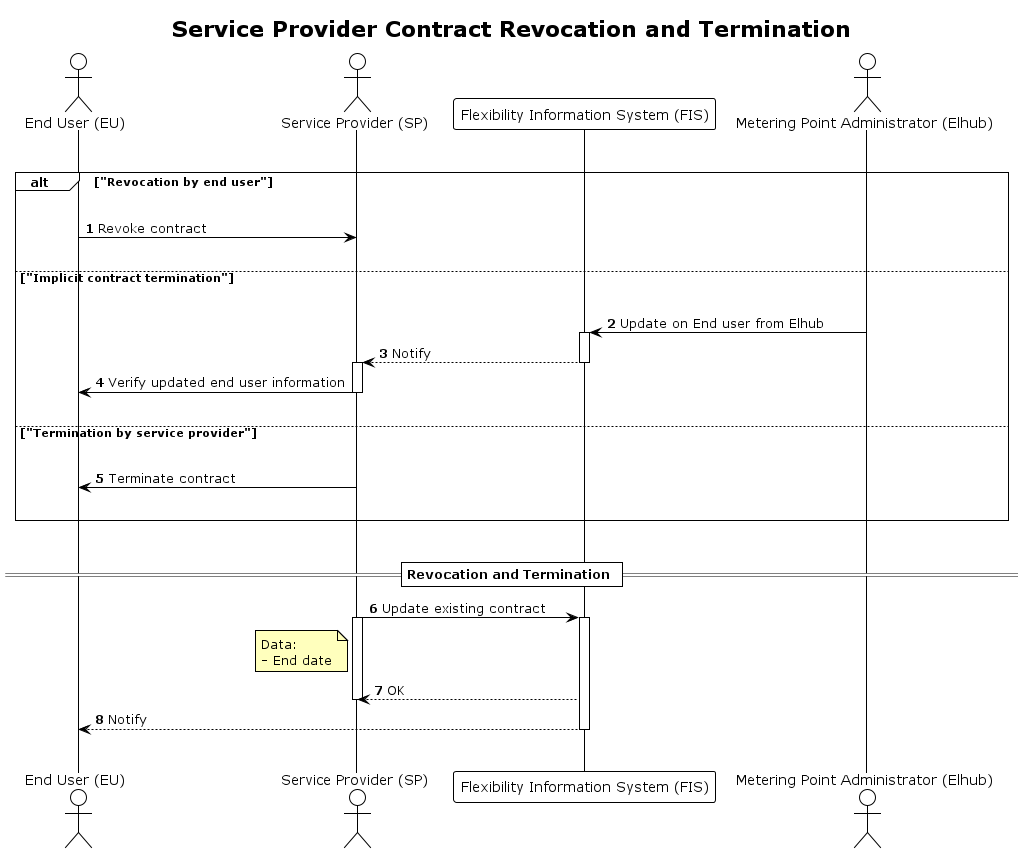
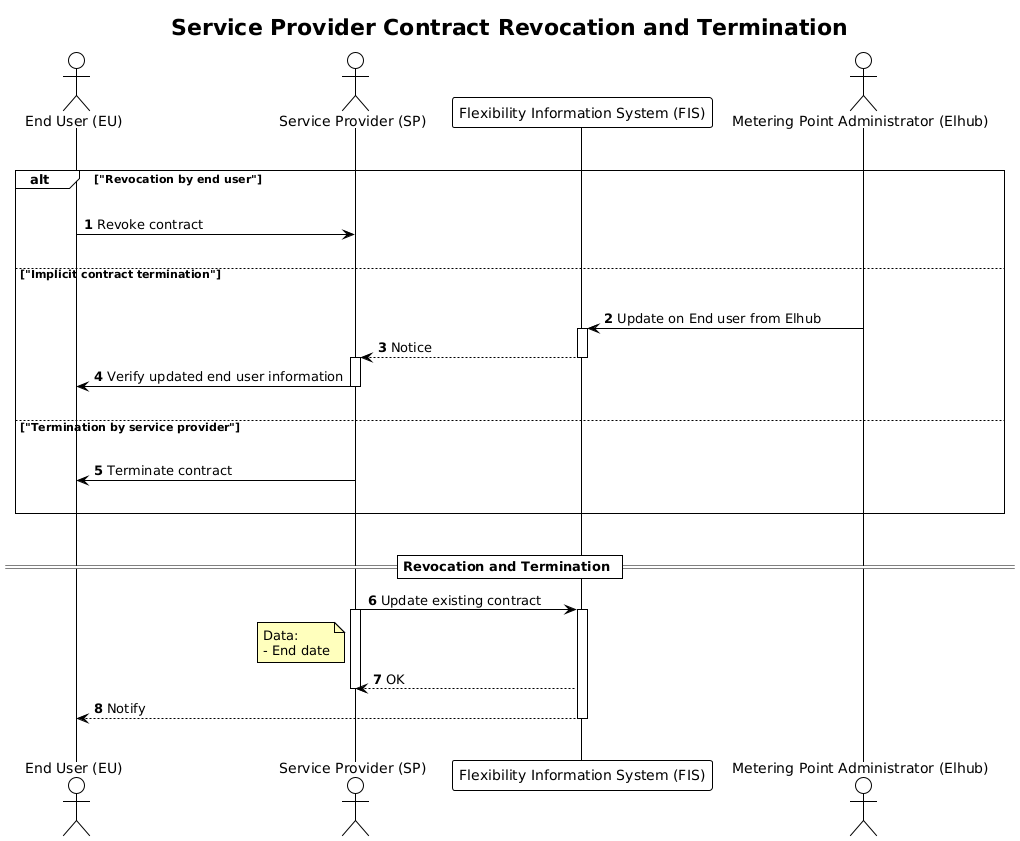
docs: use notice for SP on CUSP revocation (FLEX-531) (#209)

diff --git a/docs/processes/revocation.md b/docs/processes/revocation.md
@@ -30,7 +30,7 @@ time.
   on continuously updated end user information from Elhub.
 - A controllable unit service provider contract is decoupled from the end user
   and can span multiple end users from Elhub.
-- The service provider must verify the information given by FIS when notified
+- The service provider must verify the information given by FIS when informed
   of an implicit contract termination.
 - The service provider must update affected service providing groups if the CU
   contract is revoked or terminated.
